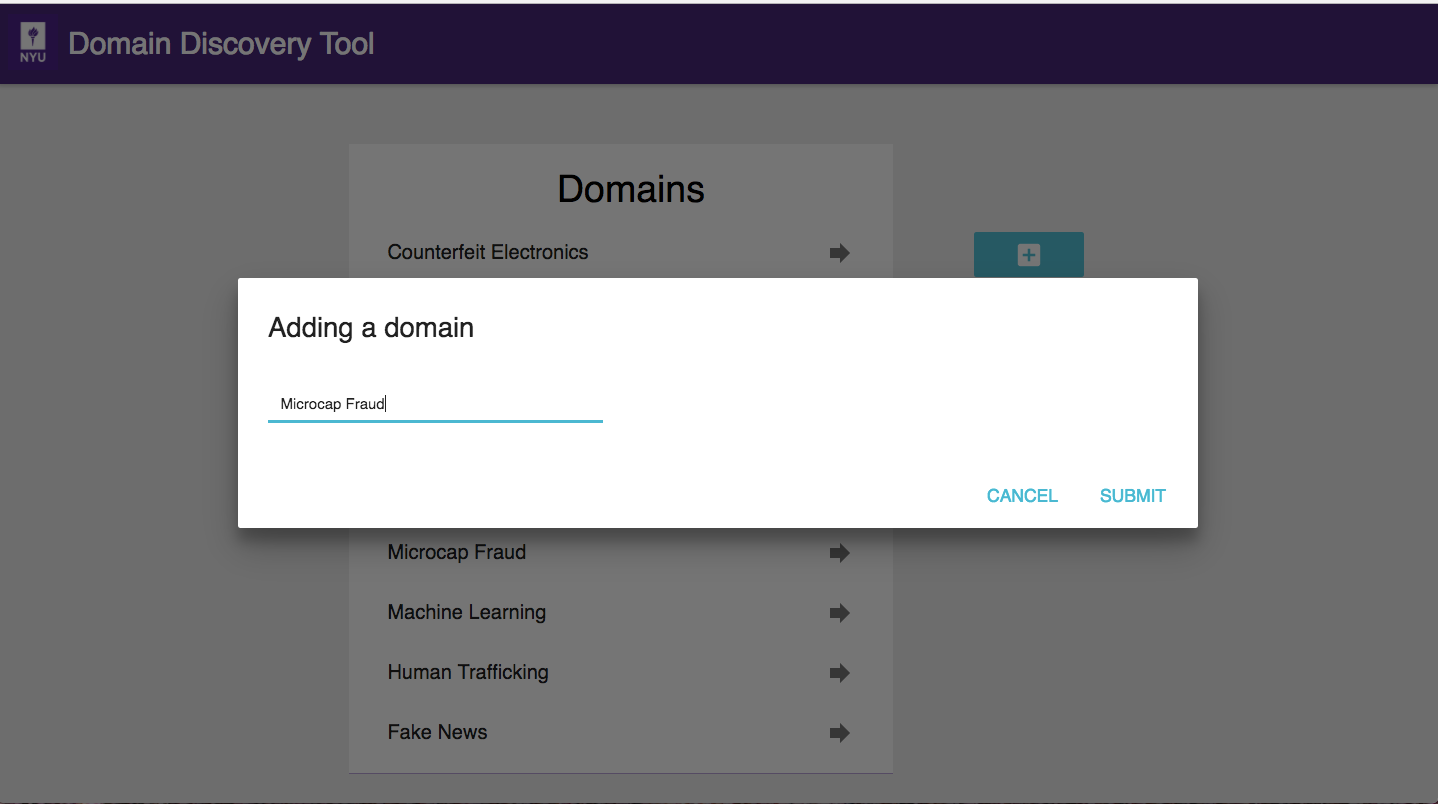
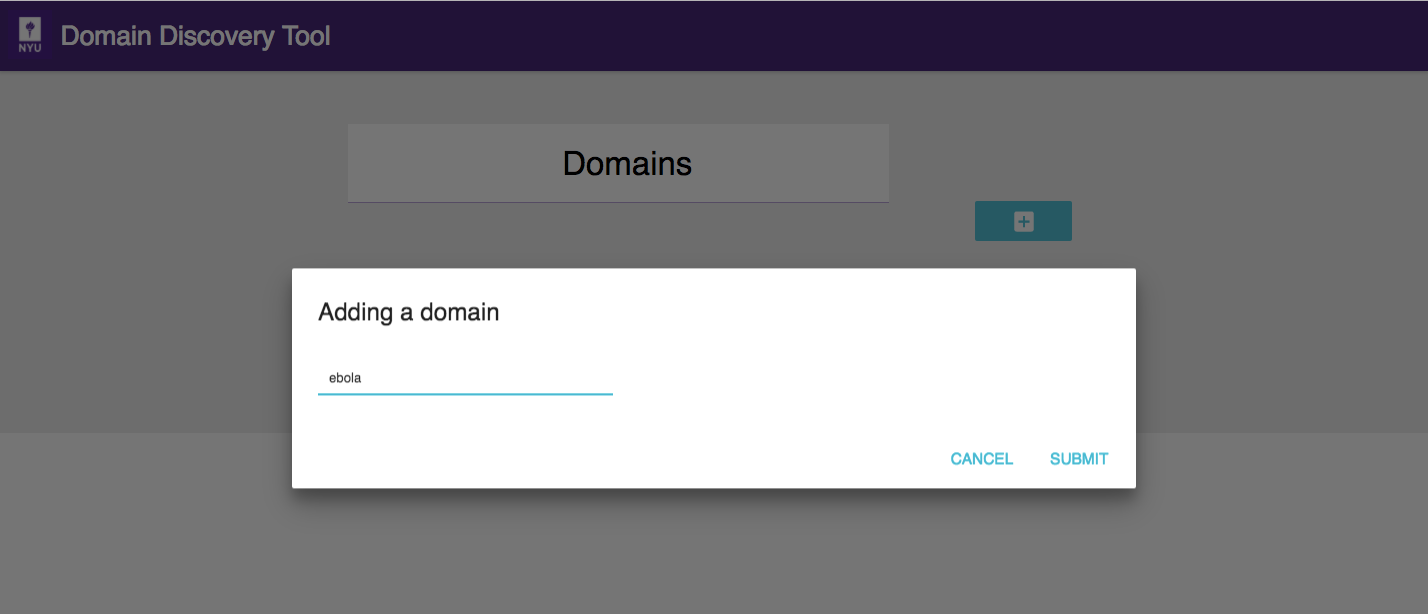
Updated

diff --git a/docs/load_data.rst b/docs/load_data.rst
@@ -1,7 +1,7 @@
-Load Data
----------
+Acquire Data
+------------
 
-Expand the Search tab on the left panel. You can add data to the domain in the following ways:
+Continuing with our example of the **Ebola** domain, we show here the 3 methods of uploading data. Expand the Search tab on the left panel. You can add data to the domain in the following ways:
 
 Web Search
 ~~~~~~~~~~
@@ -12,12 +12,12 @@ Web Search
    :height: 400px
    :alt: alternate text
 
-You can do a keywords search on google or bing by clicking on the **WEB** tab. For example, “ebola symptoms”. 
+You can do a keywords search on google or bing by clicking on the **WEB** tab. For example, “ebola symptoms”. All queries made are listed in the **Filters** Tab under **Queries**.
 
 Upload URLs
 ~~~~~~~~~~~
 
-Go to the **LOAD** tab. You can upload a list of urls in the text box as shown in figure below:
+If you have a set of URLs of sites you already know, you can add them from the **LOAD** tab. You can upload the list of URLs in the text box as shown in figure below:
 
 .. image:: load_url_text.png
    :width: 800px
@@ -27,7 +27,7 @@ Go to the **LOAD** tab. You can upload a list of urls in the text box as shown i
 
 Enter one URL per line.
 
-You can also upload a file with a list of urls by clicking on the **LOAD URLS FROM FILE** button. This will bring up a file explorer window where you can select the file to upload. The list of URLs should be entered one per line in the file. Download an example URLs list file for ebola domain `HERE <https://github.com/ViDA-NYU/domain_discovery_tool_react/raw/master/docs/ebola_urls.txt>`_. 
+You can also upload a file with the list of URLs by clicking on the **LOAD URLS FROM FILE** button. This will bring up a file explorer window where you can select the file to upload. The list of URLs should be entered one per line in the file. Download an example URLs list file for ebola domain `HERE <https://github.com/ViDA-NYU/domain_discovery_tool_react/raw/master/docs/ebola_urls.txt>`_. The uploaded URLs are listed in the **Filters** Tab under **Queries** as **Uploaded**.
 
 SeedFinder
 ~~~~~~~~~~
@@ -42,4 +42,4 @@ To start a SeedFinder search click on the SEEDFINDER tab.
    :height: 600px
    :alt: alternate text
 
-Enter the initial search query keywords, for example **ebola treatment**, as shown in the figure above. The SeedFinder issues this query to Google/Bing. It applies the domain model to the pages returned by Google/Bing. From the pages labeled relevant by the domain model the SeedFinder extracts keywords to form new queries which it again issues to Google/Bing. This iterative process terminates when no more relevant pages are retrieved or the max number of queries configured is exceeded. The results of the SeedFinder queries can be found under Filtering->Queries. These pages can now be analysed and annotated just like the other web pages.
+Enter the initial search query keywords, for example **ebola treatment**, as shown in the figure above. The SeedFinder issues this query to Google/Bing. It applies the domain model to the pages returned by Google/Bing. From the pages labeled relevant by the domain model the SeedFinder extracts keywords to form new queries which it again issues to Google/Bing. This iterative process terminates when no more relevant pages are retrieved or the max number of queries configured is exceeded. All queries made are listed in the **Filters** Tab under **SeedFinder Queries**. These pages can now be analysed and annotated just like the other web pages.

diff --git a/docs/add_domain.rst b/docs/add_domain.rst
@@ -1,13 +1,13 @@
-Add Domain
-----------
+Create Domain
+-------------
 
-.. image:: domains.png
+.. image:: empty_domain.png
    :width: 800px
    :align: center
    :height: 400px
    :alt: alternate text
 
-Begin by adding a domain on the Domains page (initial page), shown in the figure above, by clicking on the |add_domain| button. Domain maintains context of domain discovery.
+Begin by adding a domain on the Domains page (initial page), shown in the figure above, by clicking on the |add_domain| button. Domain maintains context of domain discovery. 
 
 .. |add_domain| image:: add_domain_button.png
 
@@ -17,7 +17,13 @@ Begin by adding a domain on the Domains page (initial page), shown in the figure
    :height: 400px
    :alt: alternate text
 
-On the **Adding a domain** dialog shown in figure above, enter the name of the domain you would like to create, for example **Microcap Fraud**, and click on **Submit** button. You should now see the new domain you added in the list of domains.
+On the **Adding a domain** dialog shown in figure above, enter the name of the domain you would like to create, for example **Ebola**, and click on **Submit** button. You should now see the new domain you added in the list of domains as shown below.
+
+.. image:: add_domain.png
+   :width: 800px
+   :align: center
+   :height: 400px
+   :alt: alternate text
 
 Once domain is added click on domain name in the list of domains to collect, analyse and annotate web pages.
 

diff --git a/docs/use.rst b/docs/use.rst
@@ -1,7 +1,7 @@
 Using the Domain Discovery Tool
 ===============================
 
-Now you should be able to head to http://localhost:8084/ to interact with the tool.
+Now you should be able to head to http://<hostname>:8084/ to interact with the tool.
 
 .. include:: add_domain.rst
 .. include:: load_data.rst
@@ -20,7 +20,7 @@ DDT incrementally builds a model as the user annotates the retrieved pages. The 
 Run Crawler
 -----------
 
-Once a sufficiently good model is available you can start the ACHE crawler by clicking on "Start Crawler" button. You can see the results of the crawled data in "Crawled Data" in the Filters Tab. When the crawler is running it can be monitored at http://localhost:8080/.
+Once a sufficiently good model is available you can start the ACHE crawler by clicking on "Start Crawler" button. You can see the results of the crawled data in "Crawled Data" in the Filters Tab. When the crawler is running it can be monitored at http://<hostname>:8080/.
 
 
 
